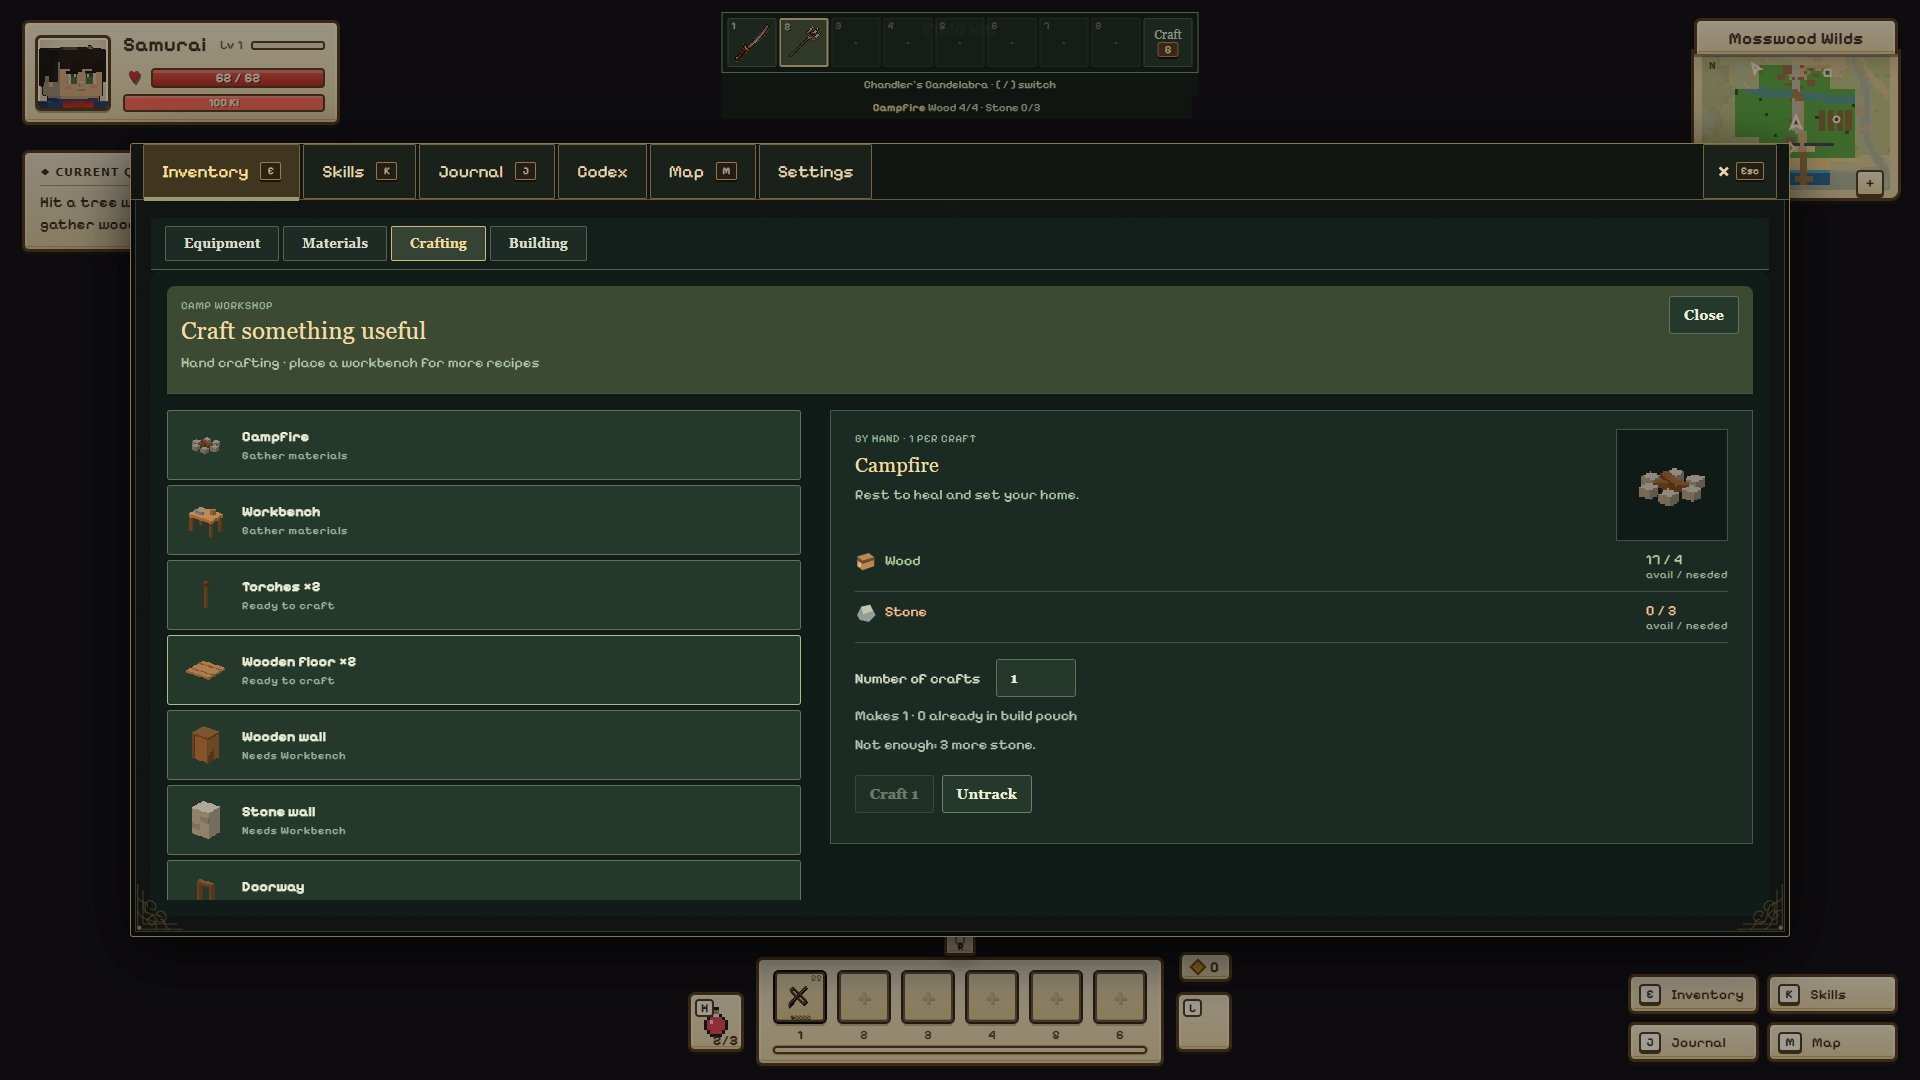
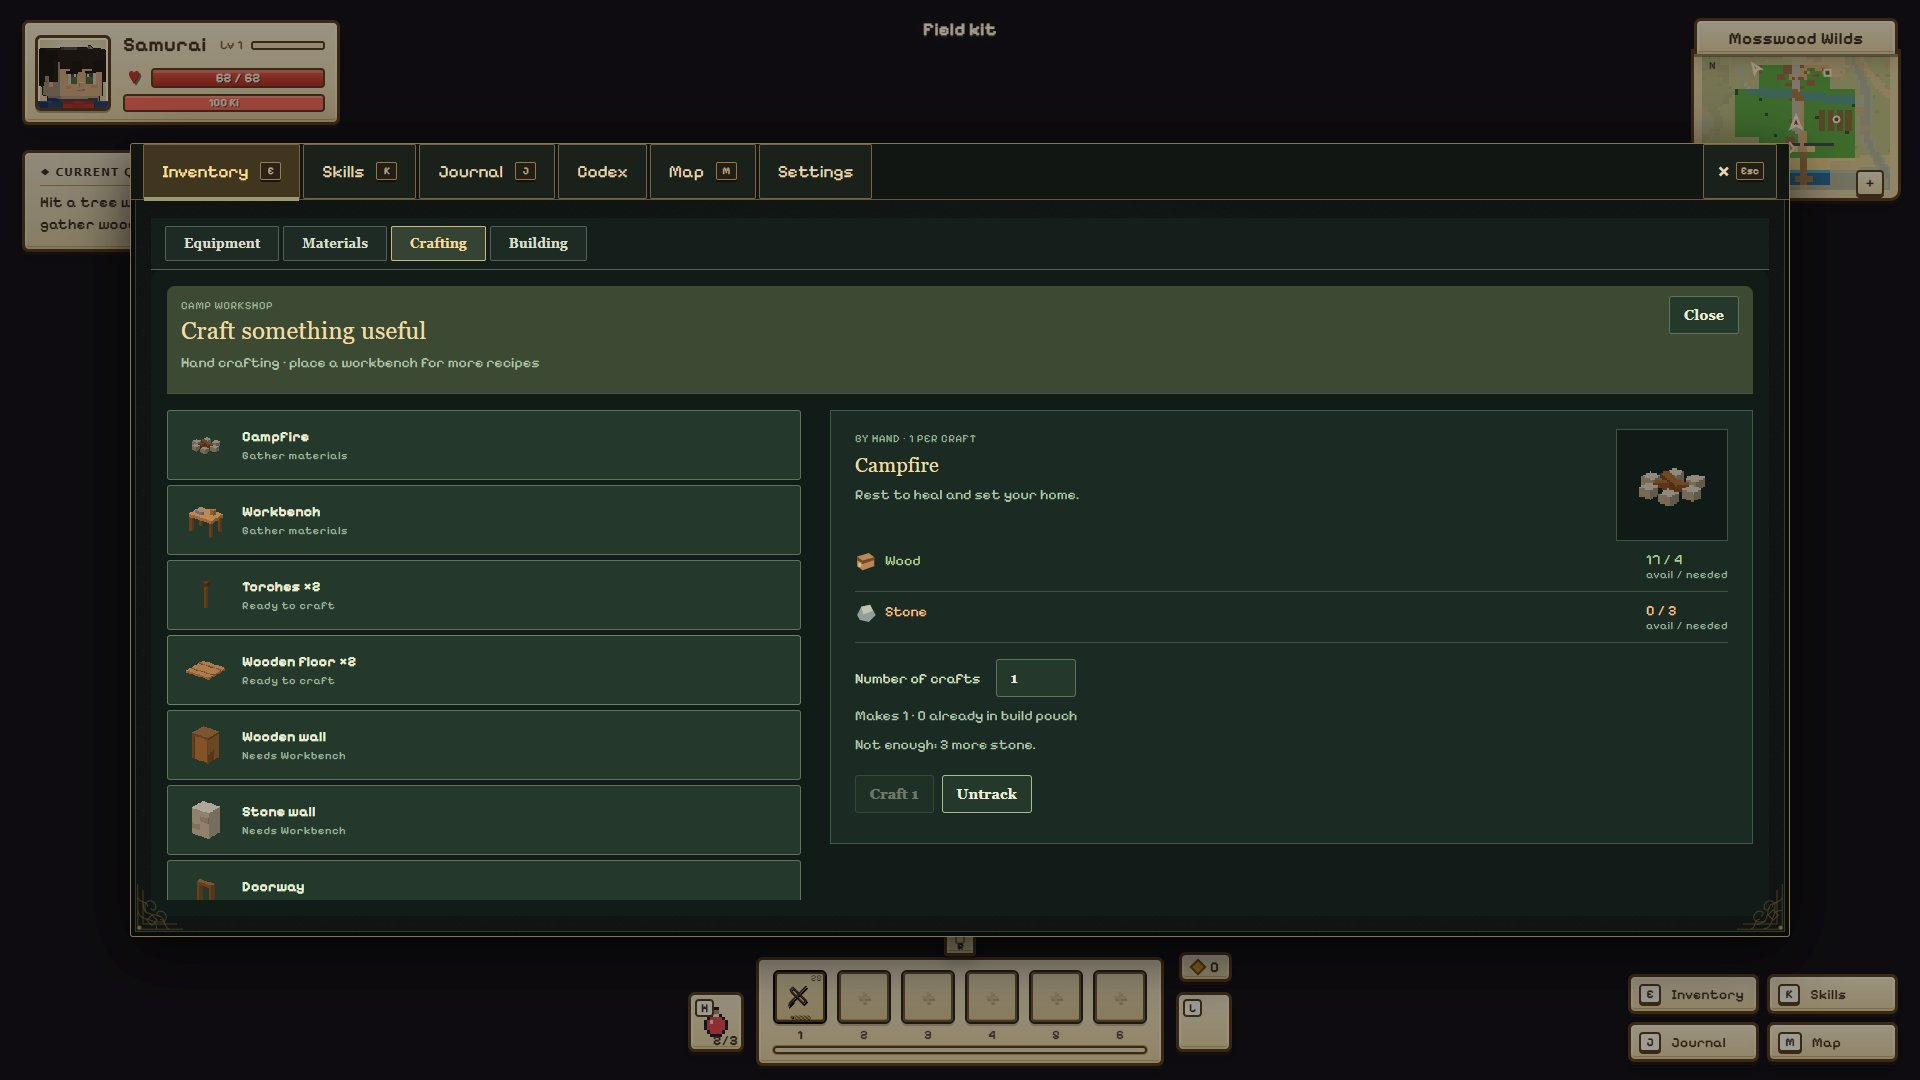
fix(survival): hide weapon belt HUD and elevate modal screens during pause and inventory

diff --git a/fieldcraft.css b/fieldcraft.css
@@ -2,7 +2,7 @@
 #ui #field-tabs{display:flex;gap:4px;padding:8px 14px;border-bottom:1px solid #536052;background:#141e1b;flex:none}#ui #field-tabs[hidden]{display:none}#ui #field-tabs button{background:#1e2b25!important;color:#d9deca!important;border:1px solid #536052!important;padding:9px 18px!important;font:600 13px Georgia,serif!important}#ui #field-tabs button[aria-pressed=true]{color:#f2dc9b!important;border-color:#d4b775!important;background:#344334!important}
 #ui #sv-panel{position:relative!important;inset:auto!important;transform:none!important;width:auto!important;max-width:none!important;max-height:none!important;min-height:0;flex:1;overflow:auto;margin:0!important;border:0!important;box-shadow:none!important;background:#111c19!important;color:#dbe0ca!important;padding:16px!important;font:14px Georgia,serif!important;z-index:auto!important}#ui #sv-panel header{display:flex;align-items:start;justify-content:space-between;gap:12px;border-bottom:1px solid #425348;padding-bottom:12px}#ui #sv-panel h2{color:#f0dda9!important;font-size:24px!important;margin:5px 0!important}#ui #sv-panel h3{color:#f0dda9!important;font-size:20px!important;margin:8px 0!important}#ui #sv-panel p{color:#b7c6b3!important;font-size:14px!important;line-height:1.5!important;margin:8px 0!important}#ui #sv-panel small{color:#9eb29c!important;font-size:11px!important;letter-spacing:.06em}#ui #sv-panel button,#ui #sv-panel input{background:#25382c!important;color:#edf0d8!important;border:1px solid #607259!important;border-radius:3px!important;padding:10px 14px!important;box-shadow:none!important;text-shadow:none!important;font:600 14px Georgia,serif!important}#ui #sv-panel button:disabled{opacity:.4!important}#ui #sv-panel footer{display:flex;flex-wrap:wrap;gap:10px;align-items:center;padding:14px 0 0;color:#adbca6!important}
 #ui .craft-layout{display:grid;grid-template-columns:minmax(230px,.9fr) minmax(300px,1.3fr);gap:24px;padding-top:16px;min-height:360px}#ui .recipe-list{display:grid;gap:5px;align-content:start;max-height:490px;overflow:auto;padding-right:5px}#ui .recipe-list button{display:flex;align-items:center;gap:12px;text-align:left;background:#17241e!important}#ui .recipe-list button[aria-pressed=true]{border-color:#e2c88d!important;background:#354331!important}#ui .recipe-list b,#ui .recipe-list small{display:block}#ui .recipe-list small{margin-top:4px}#ui .craft-model{width:64px;height:64px;object-fit:contain;image-rendering:pixelated;flex:none}#ui .recipe-detail{padding:18px 24px;background:#1b2b23;border:1px solid #405b46;min-width:0}#ui .recipe-detail>.craft-model{width:112px;height:112px;float:right;margin-left:10px;background:#101a16;border:1px solid #415343}#ui .recipe-detail dl{clear:both;margin:22px 0 16px}#ui .recipe-detail dl>div{display:flex;justify-content:space-between;padding:10px 0;border-bottom:1px solid #425345}#ui .recipe-detail dd{margin:0}#ui .recipe-detail dd small{display:block;text-align:right}#ui #sv-panel .ok{color:#b3d59b!important}#ui #sv-panel .no{color:#ffc190!important}#ui .recipe-detail input{width:80px;margin-left:12px}#ui .craft-actions{display:flex;gap:8px;position:sticky;bottom:0;background:#1b2b23;padding:12px 0}#ui .craft-tonic{font-size:40px;color:#b8dfbe;padding:8px;display:inline-block}#ui .material-grid,#ui .build-grid{display:grid;grid-template-columns:repeat(auto-fit,minmax(200px,1fr));gap:14px;padding-top:16px}#ui .material-grid article,#ui .build-grid article{background:#1d2b23;border:1px solid #405346;padding:16px}#ui .material-grid article>span{font-size:32px}#ui .build-grid article{display:flex;flex-direction:column;align-items:start}#ui .build-grid article p{flex:1}#ui .material-grid h3 b,#ui .build-grid h3 b{color:#c7dcae;font-variant-numeric:tabular-nums}
-#ui #sv-hud{position:absolute!important;top:12px!important;left:50%!important;transform:translateX(-50%)!important;display:block!important;width:max-content;max-width:calc(100vw - 300px);padding:0!important;background:none!important;border:0!important;box-shadow:none!important;pointer-events:auto;z-index:26!important}#ui #sv-hud.hidden{display:none!important}#ui .field-belt{display:flex;gap:3px;padding:5px;background:#111d19ee;border:1px solid #82906a;box-shadow:0 3px 0 #080e0b}#ui .field-belt button{position:relative!important;width:49px;height:49px;padding:0!important;border:1px solid #4b6048!important;background:#26362b!important;color:#dfe7ce!important;font:12px Georgia,serif!important;border-radius:2px!important;box-shadow:none!important;text-shadow:none!important}#ui .field-belt button.selected{border:2px solid #e4cb91!important;background:#46543a!important}#ui .field-belt img{width:100%;height:100%;image-rendering:pixelated}#ui .field-belt small{position:absolute;top:1px;left:3px;color:#e4dbb7;text-shadow:1px 1px #000;font:10px monospace}#ui .field-belt button:disabled{opacity:.45!important}#ui .belt-caption,#ui .tracked-recipe{font:11px Georgia,serif;color:#e2dfbc;text-align:center;padding:5px;background:#111d19da}#ui .tracked-recipe{max-width:470px;white-space:normal;color:#c8d8b2}#ui .tracked-recipe b{color:#f3dba4}
+#ui #sv-hud{position:absolute!important;top:12px!important;left:50%!important;transform:translateX(-50%)!important;display:block!important;width:max-content;max-width:calc(100vw - 300px);padding:0!important;background:none!important;border:0!important;box-shadow:none!important;pointer-events:auto;z-index:26!important}#ui #sv-hud.hidden,body:has(#pause:not(.hidden)) #ui #sv-hud,body:has(#inventory:not(.hidden)) #ui #sv-hud,body:has(#shop:not(.hidden)) #ui #sv-hud,body:has(#craft:not(.hidden)) #ui #sv-hud,body:has(#title-settings:not(.hidden)) #ui #sv-hud{display:none!important}#pause,#craft,#shop,#classsel,#gameover,#title-settings{z-index:60!important}#ui .field-belt{display:flex;gap:3px;padding:5px;background:#111d19ee;border:1px solid #82906a;box-shadow:0 3px 0 #080e0b}#ui .field-belt button{position:relative!important;width:49px;height:49px;padding:0!important;border:1px solid #4b6048!important;background:#26362b!important;color:#dfe7ce!important;font:12px Georgia,serif!important;border-radius:2px!important;box-shadow:none!important;text-shadow:none!important}#ui .field-belt button.selected{border:2px solid #e4cb91!important;background:#46543a!important}#ui .field-belt img{width:100%;height:100%;image-rendering:pixelated}#ui .field-belt small{position:absolute;top:1px;left:3px;color:#e4dbb7;text-shadow:1px 1px #000;font:10px monospace}#ui .field-belt button:disabled{opacity:.45!important}#ui .belt-caption,#ui .tracked-recipe{font:11px Georgia,serif;color:#e2dfbc;text-align:center;padding:5px;background:#111d19da}#ui .tracked-recipe{max-width:470px;white-space:normal;color:#c8d8b2}#ui .tracked-recipe b{color:#f3dba4}
 #controller-status{position:fixed;bottom:7px;left:50%;transform:translateX(-50%);z-index:150;background:#102019ed;color:#f0e4b9;padding:6px 12px;border:1px solid #7b8d64;font:12px Georgia,serif;pointer-events:none;max-width:95vw;text-align:center}.using-controller :focus{outline:3px solid #f2da92!important;outline-offset:2px!important}#pad-keyboard{position:fixed;z-index:200;left:50%;top:50%;transform:translate(-50%,-50%);width:min(560px,94vw);background:#12251c;border:2px solid #d2bc87;padding:18px;box-shadow:0 0 0 100vmax #000a;color:#f1e2b7}#pad-keyboard output{display:block;padding:14px;background:#08150e;margin-bottom:12px;min-height:44px;overflow-wrap:anywhere}#pad-keyboard>div{display:grid;grid-template-columns:repeat(8,1fr);gap:8px}#pad-keyboard button{padding:12px 4px;background:#354b36;color:#f0e4be;border:1px solid #83966c}#pad-keyboard button:nth-last-child(-n+3){grid-column:span 2}
 @media(max-width:1050px){#ui #sv-hud{top:8px!important;max-width:calc(100vw - 230px)}#ui .field-belt button{width:36px;height:38px}#ui .craft-layout{gap:12px;grid-template-columns:minmax(190px,.8fr) minmax(250px,1.2fr)}}
 @media(max-width:650px){#ui #sv-hud{top:7px!important;max-width:96vw}#ui .field-belt button{width:29px;height:32px}#ui .field-belt button:last-child{width:42px}#ui #field-tabs{padding:5px;gap:3px;overflow:auto}#ui #field-tabs button{padding:8px!important;font-size:12px!important}#ui .craft-layout{grid-template-columns:1fr}#ui .recipe-list{max-height:220px}#ui .recipe-detail{padding:15px}#ui #sv-panel{padding:12px!important}#ui .recipe-detail>.craft-model{width:80px;height:80px}#ui .material-grid,#ui .build-grid{grid-template-columns:repeat(2,minmax(0,1fr));gap:7px}#ui .material-grid article,#ui .build-grid article{padding:10px}#ui .build-grid h3{font-size:16px!important}}

diff --git a/src/survival/ui.js b/src/survival/ui.js
@@ -29,11 +29,13 @@ export class SurvivalUI {
   hide() { if(this.gatherEl)this.gatherEl.hidden=true;for (const e of [this.hud, this.bar, this.panel, this.chest]) e.classList.add('hidden'); }
   refresh() {
     const R = this.m.record; if (!R) return;
+    const anyModal = this.open || this.g.ui?.invOpen || !document.getElementById('pause')?.classList.contains('hidden') || !document.getElementById('inventory')?.classList.contains('hidden') || !document.getElementById('shop')?.classList.contains('hidden') || !document.getElementById('craft')?.classList.contains('hidden') || this.g.mode === 'pause';
+    this.hud.classList.toggle('hidden', anyModal);
     const belt=reconcileBelt(R,this.g),items=availableItems(this.g),tracked=RECIPES.find(r=>r.id===R.trackedRecipe);
     const html=`<div class="field-belt" role="toolbar" aria-label="Quick weapon belt">${belt.slots.map((id,i)=>{const it=items.find(x=>x.itemInstanceId===id);return `<button type="button" data-belt="${i}" ${it?'':'disabled'} class="${it===this.g.inv.equip.weapon?'selected':''}" aria-label="${esc(it?it.name:'Empty belt slot '+(i+1))}" aria-pressed="${it===this.g.inv.equip.weapon}" title="${esc(it?.name||'New weapons fill empty slots')}"><small>${i+1}</small>${it?`<img src="${itemIconURL(it)}" alt="">`:'<span>·</span>'}</button>`;}).join('')}<button type="button" data-act="craft">Craft<br><kbd>${this.g.input.usingPad?'↓':'G'}</kbd></button></div><div class="belt-caption">${esc(this.g.inv.equip.weapon?.name||'Field belt')} · ${this.g.input.usingPad?'← / → or RB':'[ / ]'} switch</div>${tracked?`<div class="tracked-recipe"><b>${esc(tracked.name)}</b> ${Object.entries(tracked.cost).map(([k,v])=>`${NAME[k]} ${Math.min(R.resources[k],v)}/${v}`).join(' · ')}${tracked.station&&!this.m.nearStation(tracked.station)?' · Needs '+esc(PIECES[tracked.station]?.name||tracked.station):''}</div>`:''}`;
     if(this.hud.innerHTML!==html)this.hud.innerHTML=html;
     if (!this.panel.classList.contains('hidden')) this.renderPanel();
-    if (!this.m.build) this.bar.classList.add('hidden');
+    if (!this.m.build || anyModal) this.bar.classList.add('hidden');
   }
   buildStatus(b) {
     this.bar.classList.remove('hidden');

diff --git a/src/ui.js b/src/ui.js
@@ -42,7 +42,21 @@ export class UI {
     $('btn-save').onclick = async () => { if (await this.g.save()) this.toast('Saved.', '', 1); };
     $('btn-title').onclick = async () => { if (await this.g.save()) location.reload(); };
   }
-  show(id, on = true) { $(id).classList.toggle('hidden', !on); }
+  show(id, on = true) {
+    const el = $(id);
+    if (!el) return;
+    el.classList.toggle('hidden', !on);
+    if (['pause', 'inventory', 'shop', 'craft', 'title-settings'].includes(id)) {
+      if (on) {
+        this.g.survivalUI?.hud?.classList.add('hidden');
+      } else {
+        const anyModal = this.invOpen || !$('pause')?.classList.contains('hidden') || !$('inventory')?.classList.contains('hidden') || !$('shop')?.classList.contains('hidden') || !$('craft')?.classList.contains('hidden');
+        if (!anyModal) {
+          this.g.survivalUI?.refresh();
+        }
+      }
+    }
+  }
 
   // ---------------- HUD
   hearts(pop) {

diff --git a/src/main.js b/src/main.js
@@ -215,7 +215,7 @@ async function boot() {
     game.ui.closeInventory(); game.ui.show('pause', false);
     input.keys.clear(); input.taps.clear(); input.mouse.clear(); input.mtaps.clear();
     input.state = {}; input.prev = {};
-    if (page === 'resume') { mode = 'play'; return; }
+    if (page === 'resume') { mode = 'play'; game.survivalUI?.refresh(); return; }
     if (page === 'bag' || page === 'skills') {
       mode = 'play'; game.ui.invTab = page; game.ui.openInventory();
     } else { mode = 'pause'; game.ui.openPause(); game.ui.tab(page); }

diff --git a/style.css b/style.css
@@ -8,6 +8,7 @@ html,body{margin:0;height:100%;background:#0d0a14;overflow:hidden;font-family:va
 #ui{position:fixed;inset:0;pointer-events:none}
 .hidden{display:none!important}
 .screen{position:absolute;inset:0;pointer-events:auto;display:flex;flex-direction:column;align-items:center;justify-content:center}
+.screen:not(#title){z-index:60}
 
 /* HUD */
 #hud{position:absolute;inset:0}
